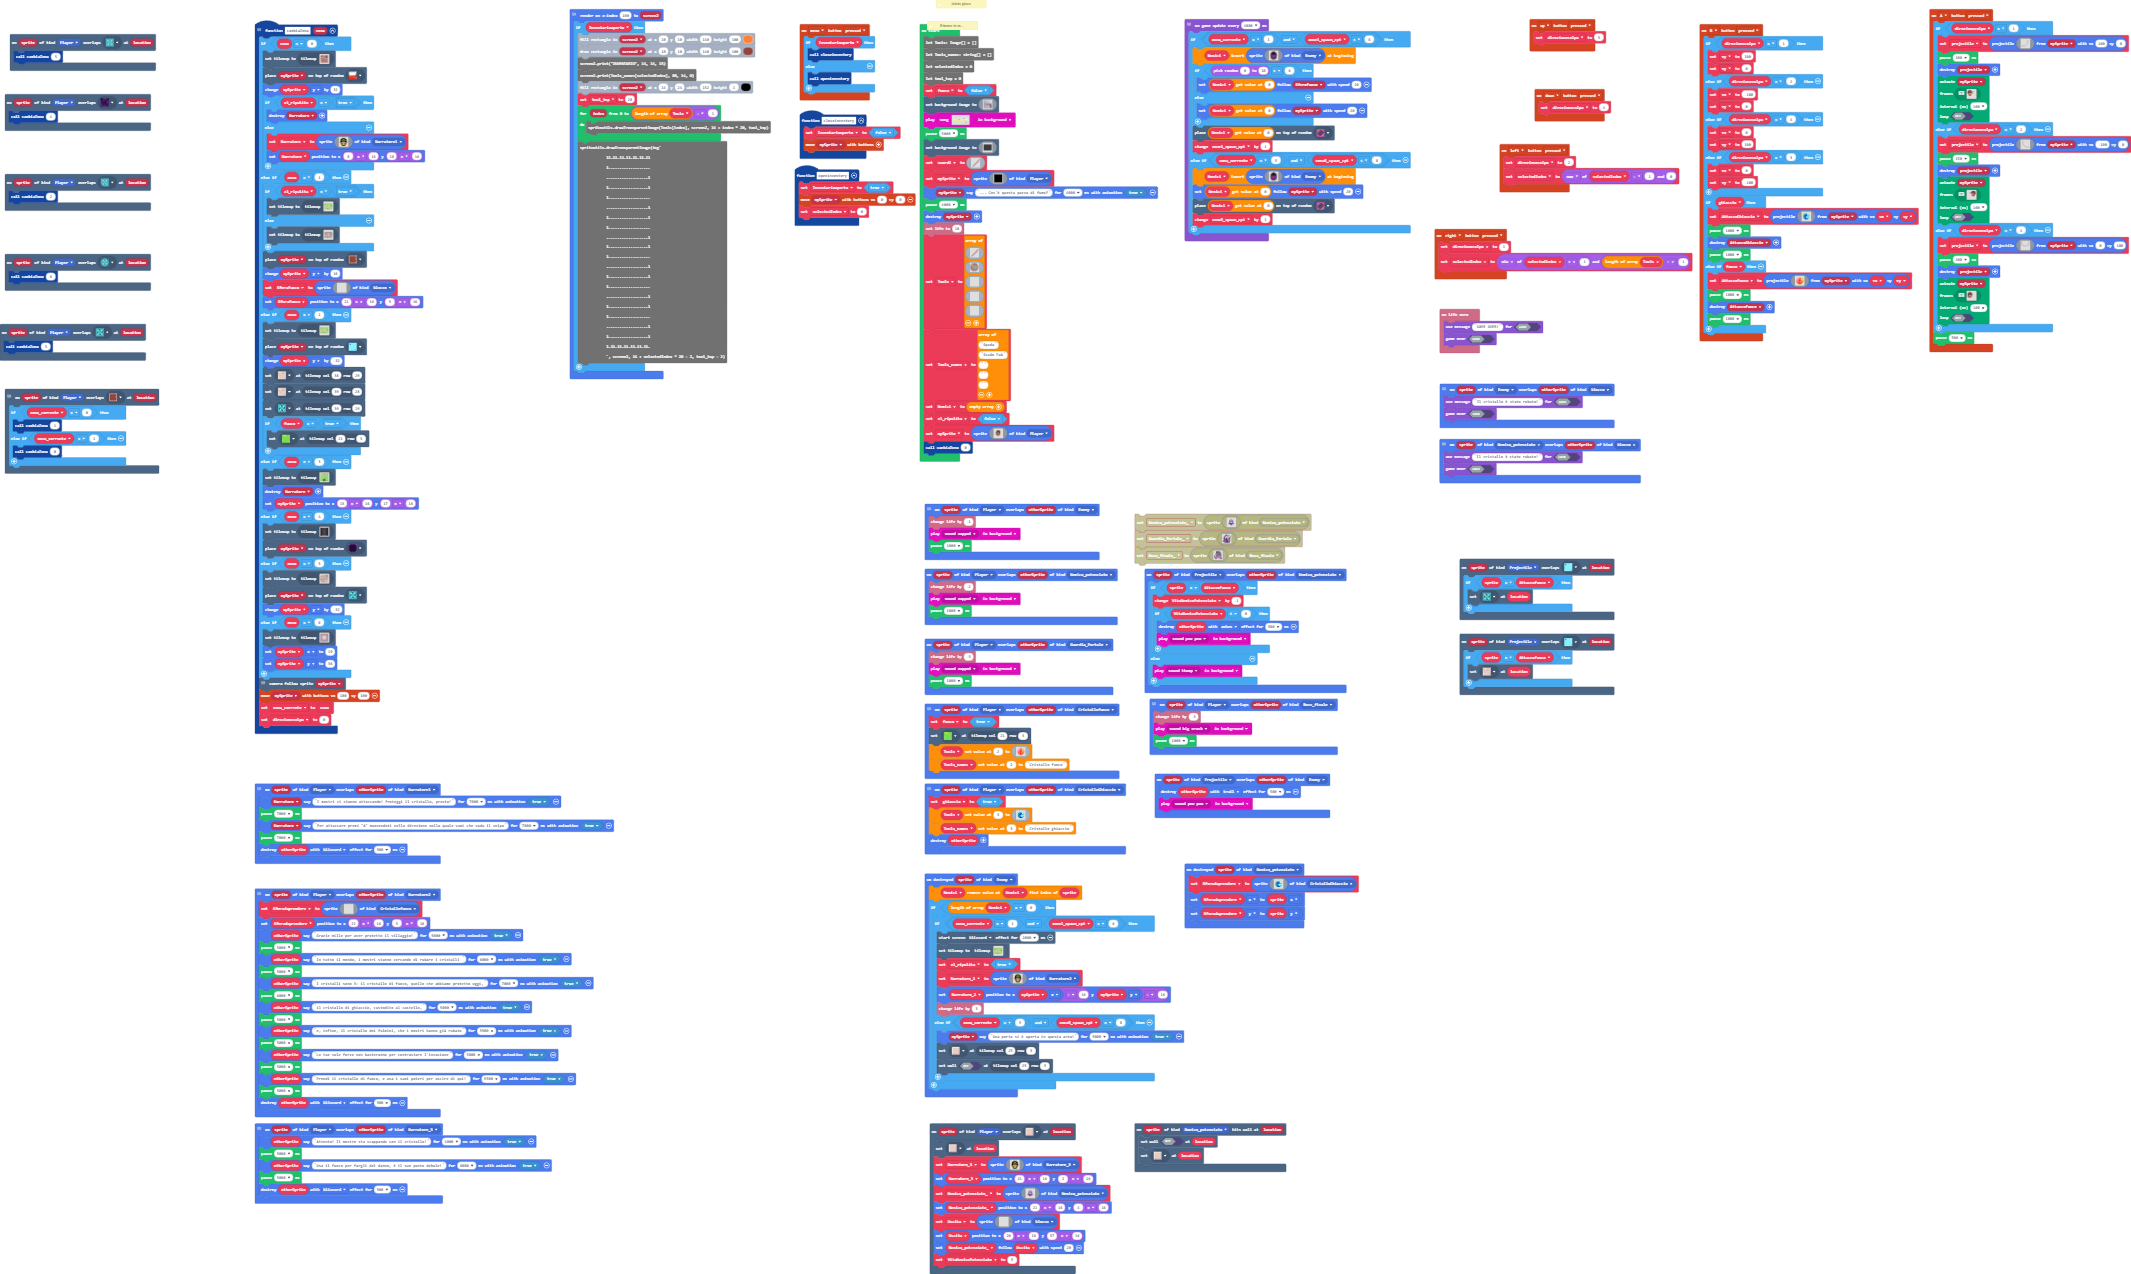
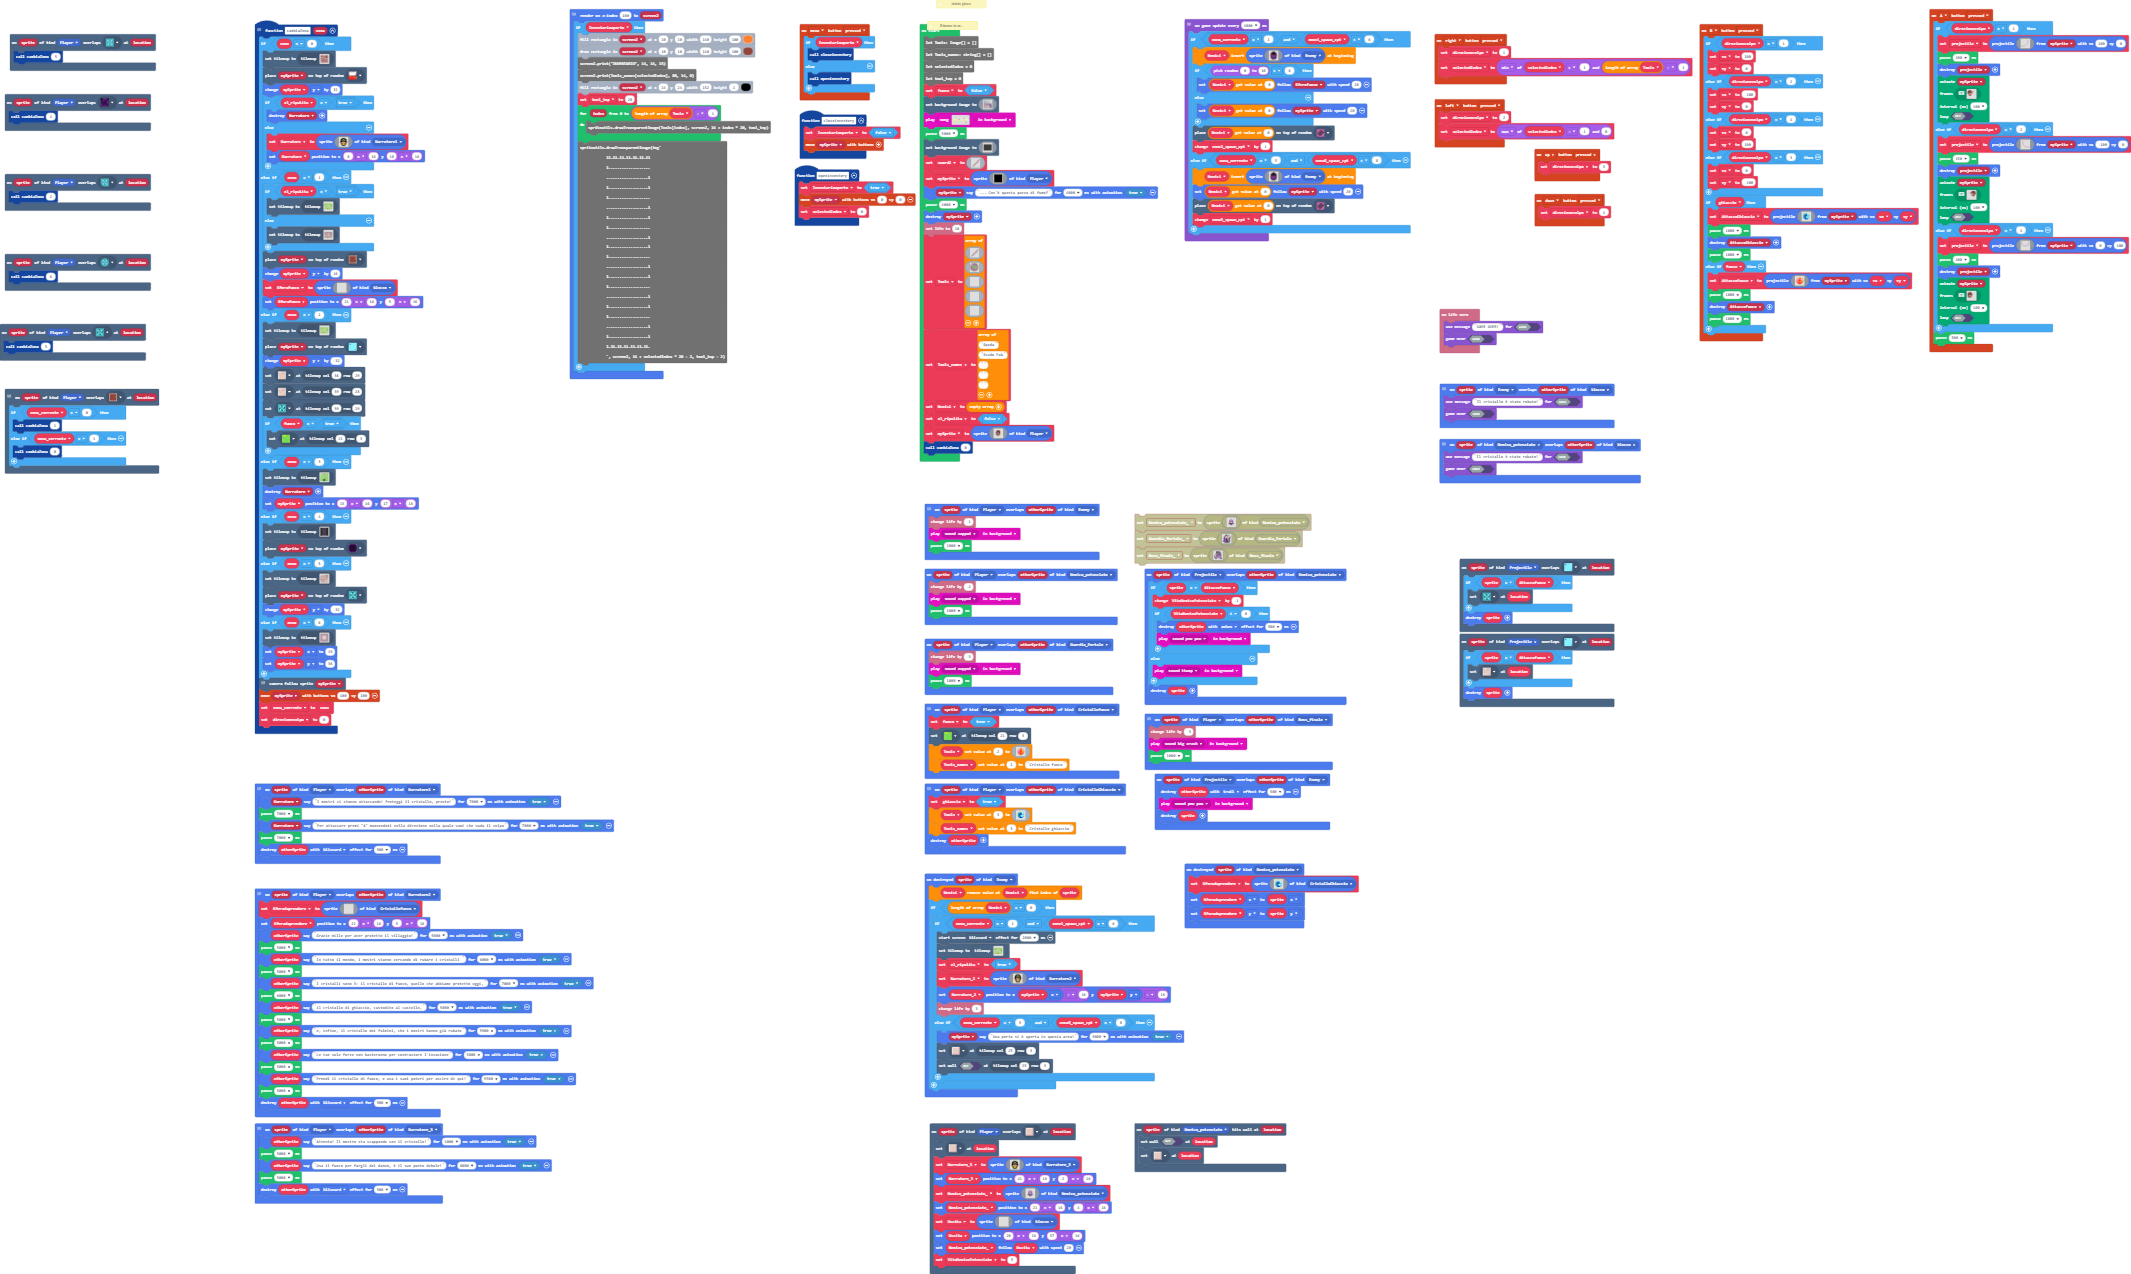
bugfix proiettili

Changed region(s): [[0.6504, 0.0, 0.8053, 0.2449], [0.5265, 0.5204, 0.6504, 0.6735], [0.6814, 0.4592, 0.7743, 0.5816]]

diff --git a/main.ts b/main.ts
@@ -33,6 +33,7 @@ scene.onOverlapTile(SpriteKind.Projectile, assets.tile`Ghiaccio_3`, function (sp
     if (sprite == Attaccofuoco) {
         tiles.setTileAt(location, assets.tile`tel mappa centrale`)
     }
+    sprites.destroy(sprite)
 })
 controller.up.onEvent(ControllerButtonEvent.Pressed, function () {
     direzionecolpo = 3
@@ -72,7 +73,7 @@ scene.onOverlapTile(SpriteKind.Player, assets.tile`Portaaperta`, function (sprit
 })
 controller.B.onEvent(ControllerButtonEvent.Pressed, function () {
     if (direzionecolpo == 1) {
-        vy = 100
+        vx = 100
         vy = 0
     } else if (direzionecolpo == 2) {
         vx = -100
@@ -559,6 +560,7 @@ scene.onOverlapTile(SpriteKind.Projectile, assets.tile`Ghiaccio_1`, function (sp
     if (sprite == Attaccofuoco) {
         tiles.setTileAt(location, sprites.castle.tilePath5)
     }
+    sprites.destroy(sprite)
 })
 scene.onOverlapTile(SpriteKind.Player, assets.tile`Blocco teletrasporto portale`, function (sprite, location) {
     cambiaZona(4)
@@ -666,6 +668,7 @@ sprites.onOverlap(SpriteKind.Projectile, SpriteKind.Nemico_potenziato, function 
     } else {
         music.play(music.melodyPlayable(music.thump), music.PlaybackMode.InBackground)
     }
+    sprites.destroy(sprite)
 })
 // Game Over
 sprites.onOverlap(SpriteKind.Nemico_potenziato, SpriteKind.blocco, function (sprite, otherSprite) {
@@ -779,6 +782,7 @@ sprites.onDestroyed(SpriteKind.Nemico_potenziato, function (sprite) {
 sprites.onOverlap(SpriteKind.Projectile, SpriteKind.Enemy, function (sprite, otherSprite) {
     sprites.destroy(otherSprite, effects.trail, 500)
     music.play(music.melodyPlayable(music.pewPew), music.PlaybackMode.InBackground)
+    sprites.destroy(sprite)
 })
 scene.onOverlapTile(SpriteKind.Player, sprites.dungeon.collectibleInsignia, function (sprite, location) {
     cambiaZona(5)
@@ -815,8 +819,8 @@ let projectile: Sprite = null
 let Sferadaprendere: Sprite = null
 let AttaccoGhiaccio: Sprite = null
 let ghiaccio = false
-let vx = 0
 let vy = 0
+let vx = 0
 let VitaNemicoPotenziato = 0
 let Uscita: Sprite = null
 let Nemico_potenziato_: Sprite = null
